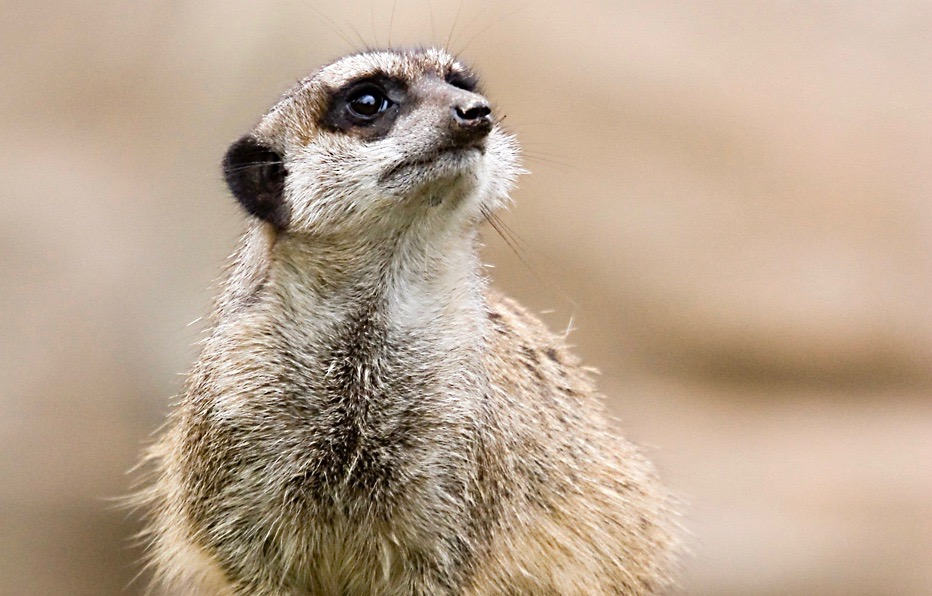
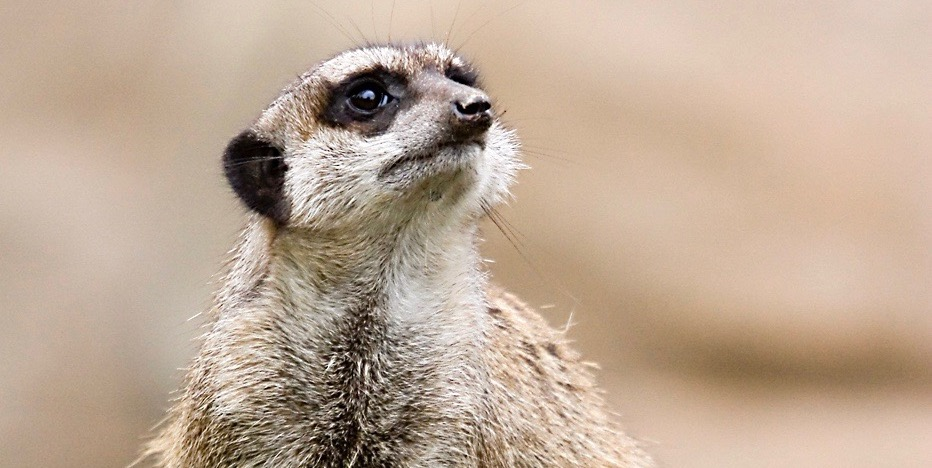
réorganisation des couvertures

diff --git a/licence-diapos.tex b/licence-diapos.tex
@@ -4,61 +4,56 @@
   \tiny
   \vspace*{10mm}
 
-  {\textcopyright} {\year} Vincent Goulet \\[4mm]
+  \begin{adjustwidth}{15mm}{15mm}
+    \raisebox{-1.4mm}{%
+      \includegraphics[height=4mm,keepaspectratio=true]{by-sa}} %
+    Vincent Goulet, {\year}
 
-  \includegraphics[height=4mm,keepaspectratio=true]{by-sa} \\%
+    {\textcopyright} {\year} par Vincent Goulet. «Rédaction avec
+    {\LaTeX}» est mis à disposition selon le contrat
+    \href{http://creativecommons.org/licenses/by-sa/4.0/deed.fr}{%
+      Attribution-Partage dans les mêmes conditions 4.0 International}
+    de Creative Commons. En vertu de ce contrat, vous êtes libre de:
+    \begin{itemize}
+    \item[\color{black}\tiny$\blacktriangleright$]%
+      \textbf{partager} --- reproduire, distribuer et communiquer
+      l'{\oe}uvre;
+    \item[\color{black}\tiny$\blacktriangleright$]%
+      \textbf{remixer} --- adapter l'{\oe}uvre;
+    \item[\color{black}\tiny$\blacktriangleright$] utiliser cette
+      {\oe}uvre à des fins commerciales.
+    \end{itemize}
+    Selon les conditions suivantes: \vspace*{2mm}
 
-  Cette création est mise à disposition selon le contrat
-  \href{http://creativecommons.org/licenses/by-sa/4.0/deed.fr}{%
-    Attribution-Partage dans les mêmes conditions 4.0 International}
-  de Creative Commons. En vertu de ce contrat, vous êtes libre de:
-  \begin{itemize}
-  \item[\color{black}\tiny$\blacktriangleright$]%
-    \textbf{partager} --- reproduire, distribuer et communiquer
-    l'{\oe}uvre;
-  \item[\color{black}\tiny$\blacktriangleright$]%
-    \textbf{remixer} --- adapter l'{\oe}uvre;
-  \item[\color{black}\tiny$\blacktriangleright$]
-    utiliser cette {\oe}uvre à des fins commerciales.
-  \end{itemize}
-  Selon les conditions suivantes:
-  \vspace*{2mm}
-
-  \begin{tabularx}{\linewidth}{@{}lX@{}}
-    \raisebox{-5.5mm}[0mm][10mm]{%
+    \begin{tabularx}{\linewidth}{@{}lX@{}}
+      \raisebox{-5.5mm}[0mm][10mm]{%
       \includegraphics[height=7mm,keepaspectratio=true]{by}}
-    & \textbf{Attribution} --- Vous devez créditer l'{\oe}uvre, intégrer
-      un lien vers le contrat et indiquer si des modifications ont été
-      effectuées à l'{\oe}uvre. Vous devez indiquer ces informations par
-      tous les moyens possibles, mais vous ne pouvez suggérer que
-      l'Offrant vous soutient ou soutient la façon dont vous avez
-      utilisé son {\oe}uvre. \\
-    \raisebox{-5.5mm}{\includegraphics[height=7mm,keepaspectratio=true]{sa}}
-    & \textbf{Partage dans les mêmes conditions} --- Dans le cas où
-      vous modifiez, transformez ou créez à partir du matériel composant
-      l'{\oe}uvre originale, vous devez diffuser l'{\oe}uvre modifiée
-      dans les même conditions, c'est à dire avec le même contrat avec
-      lequel l'{\oe}uvre originale a été diffusée.
-  \end{tabularx}
-  \vfill
+      & \textbf{Attribution} --- Vous devez créditer l'{\oe}uvre, intégrer
+        un lien vers le contrat et indiquer si des modifications ont été
+        effectuées à l'{\oe}uvre. Vous devez indiquer ces informations par
+        tous les moyens possibles, mais vous ne pouvez suggérer que
+        l'Offrant vous soutient ou soutient la façon dont vous avez
+        utilisé son {\oe}uvre. \\
+      \raisebox{-5.5mm}{\includegraphics[height=7mm,keepaspectratio=true]{sa}}
+      & \textbf{Partage dans les mêmes conditions} --- Dans le cas où
+        vous modifiez, transformez ou créez à partir du matériel composant
+        l'{\oe}uvre originale, vous devez diffuser l'{\oe}uvre modifiée
+        dans les même conditions, c'est à dire avec le même contrat avec
+        lequel l'{\oe}uvre originale a été diffusée.
+    \end{tabularx}
 
-  \textbf{Code source} \\
-  \begin{tabularx}{0.6\linewidth}{@{}Xl@{}}
-    Le code source de ce document est conservé dans un dépôt
-    Git public. &
-                         \raisebox{-3pt}{%
-                         \href{https://github.com/vigou3/formation-latex-ul/}{%
-                         \browsebutton}}
-  \end{tabularx}
-  \vspace*{4mm}
+    \textbf{Code source} \\
+    \viewsource{\ghurl}
 
-  \textbf{Crédits} \\
-  Concept original de la couverture: Marie-Ève Guérard. \\
-  Photo: Olaf Leillinger via
-  \href{https://commons.wikimedia.org/wiki/File:Suricata.suricatta.6861.jpg}{%
-    Wikimedia Commons}. \\
-  Lion de CTAN réalisé par Duane Bibby.
-  \vfill
+    \textbf{Crédits} \\
+    Concept original de la couverture: Marie-Ève Guérard. \\
+    Photo: Olaf Leillinger,
+    \href{https://creativecommons.org/licenses/by-sa/3.0/deed.en}{CC
+      BY-SA 3.0 Unported} via
+    \href{https://commons.wikimedia.org/wiki/File:Suricata.suricatta.6861.jpg}{%
+      Wikimedia Commons}. \\
+    Lion de CTAN réalisé par Duane Bibby.
+  \end{adjustwidth}
 \end{frame}
 
 %%% Local Variables:

diff --git a/couverture-avant-diapos.tex b/couverture-avant-diapos.tex
@@ -1,3 +1,14 @@
+%%% Copyright (C) 2018 Vincent Goulet
+%%%
+%%% Ce fichier fait partie du projet
+%%% «Rédaction avec LaTeX»
+%%% http://github.com/vigou3/formation-latex-ul
+%%%
+%%% Cette création est mise à disposition selon le contrat
+%%% Attribution-Partage dans les mêmes conditions 4.0
+%%% International de Creative Commons.
+%%% http://creativecommons.org/licenses/by-sa/4.0/
+
 \begingroup
 
 \TPGrid{3}{36}
@@ -8,10 +19,40 @@
 \setlength{\bandeorwidth}{\TPHorizModule}
 \setlength{\bandeorheight}{\banderougeheight}
 \setlength{\imageheight}{29\TPVertModule}
-\setlength{\logoheight}{2.5\TPVertModule}
+\setlength{\imagewidth}{3\TPHorizModule}
+\setlength{\logoheight}{3.5\TPVertModule}
 \setlength{\gapwidth}{0.75pt}
 \addtolength{\bandeorwidth}{-\gapwidth}
 \addtolength{\imageheight}{-\gapwidth}
+
+\def\titlefmt{%
+  \titles\bfseries\fontsize{24}{24}\selectfont%
+  Rédaction avec\par
+  \rmfamily\mdseries\fontsize{22.5}{22.5}\selectfont%
+  \raisebox{5pt}{{\textbackslash}title}%
+  \fontsize{40}{40}\selectfont%
+  \{%
+  \fontsize{35}{35}\selectfont%
+  \LaTeX
+  \fontsize{40}{40}\selectfont%
+  \}}
+\def\subtitlefmt{%
+  \titles\bfseries\fontsize{11}{11}\selectfont%
+  Premiers pas\par}
+\def\authorfmt{%
+  \titles\bfseries\fontsize{14}{14}\selectfont%
+  Vincent Goulet\par}
+\def\affiliation{%
+  \titles\mdseries\fontsize{11}{12}\selectfont%
+  Professeur titulaire \\
+  École d'actuariat, Université Laval}
+\def\edition{%
+  \titles\mdseries\fontsize{11}{11}\selectfont%
+  Édition {\titles\year}.\month}
+
+%%%
+%%% Page de titre
+%%%
 
 \begin{frame}[plain]
   %% bandeau identitaire
@@ -29,7 +70,8 @@
 
   %% image de fond
   \begin{textblock*}{125mm}(0mm,0mm)
-    \includegraphics[height=\imageheight,keepaspectratio=true]{Suricata-diapos.jpg}
+    \includegraphics[width=\imagewidth,%
+                     keepaspectratio=true]{Suricata-diapos.jpg}
   \end{textblock*}
 
   %% trame (titre)
@@ -41,19 +83,7 @@
 
   %% titre
   \begin{textblock*}{1.6\TPHorizModule}(0.4\TPHorizModule,15.2\TPVertModule)
-    \raggedright%
-    \titles\bfseries
-    \fontsize{20}{20}\selectfont
-    Rédaction avec \\
-    \rmfamily\mdseries
-    \fontsize{22.5}{22.5}\selectfont
-    \raisebox{5pt}{{\textbackslash}title}%
-    \fontsize{40}{40}\selectfont%
-    \{%
-    \fontsize{35}{35}\selectfont%
-    \LaTeX
-    \fontsize{40}{40}\selectfont%
-    \}
+    \titlefmt
   \end{textblock*}
 
   %% trame (premiers pas)
@@ -63,18 +93,37 @@
     \pgfsetfillopacity{1}
   \end{textblock*}
 
-  %%
+  %% sous-titre (premiers pas)
   \begin{textblock*}{0.8\TPHorizModule}(2.1\TPHorizModule,24.5\TPVertModule)
-    \raggedright%
-    \titles\bfseries
-    \fontsize{11}{11}\selectfont
-    Premiers pas
+    \subtitlefmt
+  \end{textblock*}
+\end{frame}
+
+%%%
+%%% Page frontispice
+%%%
+
+\begin{frame}[plain]
+  \begin{textblock*}{1.6\TPHorizModule}(0.4\TPHorizModule,5\TPVertModule)
+    \authorfmt
+  \end{textblock*}
+
+  \begin{textblock*}{1.6\TPHorizModule}(0.4\TPHorizModule,7\TPVertModule)
+    \affiliation
+  \end{textblock*}
+
+  \begin{textblock*}{1.6\TPHorizModule}(0.4\TPHorizModule,15.2\TPVertModule)
+    \titlefmt
+  \end{textblock*}
+
+  \begin{textblock*}{1.6\TPHorizModule}(0.4\TPHorizModule,30\TPVertModule)
+    \edition
   \end{textblock*}
 \end{frame}
 \endgroup
 
 %%% Local Variables:
-%%% mode: latex
-%%% TeX-engine: xetex
 %%% TeX-master: "formation-latex-ul-diapos"
+%%% TeX-engine: xetex
+%%% coding: utf-8
 %%% End:

diff --git a/formation-latex-ul-diapos.tex b/formation-latex-ul-diapos.tex
@@ -1,20 +1,36 @@
-\documentclass[aspectratio=54,10pt,xcolor=x11names]{beamer}
-  \usepackage[french]{babel}
+%%% Copyright (C) 2018 Vincent Goulet
+%%%
+%%% Ce fichier fait partie du projet
+%%% «Rédaction avec LaTeX»
+%%% http://github.com/vigou3/formation-latex-ul
+%%%
+%%% Cette création est mise à disposition selon le contrat
+%%% Attribution-Partage dans les mêmes conditions 4.0
+%%% International de Creative Commons.
+%%% http://creativecommons.org/licenses/by-sa/4.0/
+
+\documentclass[aspectratio=1610,xcolor=x11names,french]{beamer}
+  \usepackage{babel}
   \usepackage[autolanguage]{numprint}
   \usepackage{amsmath}
-  \usepackage{booktabs,tabularx}
-  \usepackage{metalogo}                % logo \XeLaTeX
-  \usepackage{fontawesome}
-  \usepackage{listings}
-  \usepackage[export]{adjustbox}       % cadre serré autour d'une image
-  \usepackage[overlay,absolute]{textpos}
+  \usepackage{changepage}                % page licence
+  \usepackage{tabularx}                  % page licence
+  \usepackage{booktabs}                  % beaux tableaux
+  \usepackage{fontawesome}               % icônes
+  \usepackage{awesomebox}                % \tipbox et autres
+  \usepackage{listings}                  % code source
+  \usepackage[export]{adjustbox}         % cadre autour image
+  \usepackage[overlay,absolute]{textpos} % couvertures
+  \usepackage{metalogo}                  % logo \XeLaTeX
 
-  %% =============================
+  %% ==========================================
   %%  Informations de publication
-  %% =============================
+  %%  (titre et al. dans couverture-avant.tex)
+  %% ==========================================
   \renewcommand{\year}{2016}
   \renewcommand{\month}{11-3}
   \newcommand{\ctanurl}{https://ctan.org/pkg/formation-latex-ul/}
+  \newcommand{\ghurl}{https://github.com/vigou3/formation-latex-ul/}
 
   %% =======================
   %%  Apparence du document
@@ -173,12 +189,9 @@
   \newcommand{\link}[2]{\href{#1}{#2~\raisebox{-0.2ex}{\faExternalLink}}}
   \newcommand{\capsule}[2]{\href{#1}{\faYoutubePlay~#2}}
 
-  %% «Bouton» de la page de copyright
-  \newcommand{\browsebutton}{%
-    \setlength{\fboxrule}{0.5pt}%
-    \framebox[20mm][c]{%
-      \makebox[2.5mm]{\raisebox{-1pt}{\footnotesize\faGithub}}\;%
-      {\sffamily Voir sur GitHub}}}
+  %% Lien vers GitHub dans la page de notices
+  \newcommand{\viewsource}[1]{%
+    \href{#1}{\faGithub\ Voir sur GitHub}}
 
   %% «Bouton» pour accéder à CTAN
   \newcommand{\ctanbutton}{%
@@ -203,13 +216,13 @@
   \newlength{\banderougewidth} \newlength{\banderougeheight}
   \newlength{\bandeorwidth}    \newlength{\bandeorheight}
   \newlength{\imageheight}
+  \newlength{\imagewidth}
   \newlength{\logoheight}
   \newlength{\gapwidth}
 
 \begin{document}
 
 \input{couverture-avant-diapos}
-\input{frontispice-diapos}
 \input{licence-diapos}
 \input{prerequis-diapos}
 
@@ -266,7 +279,7 @@
 \end{document}
 
 %%% Local Variables:
-%%% TeX-engine: xetex
-%%% mode: latex
 %%% TeX-master: t
+%%% TeX-engine: xetex
+%%% coding: utf-8
 %%% End:
